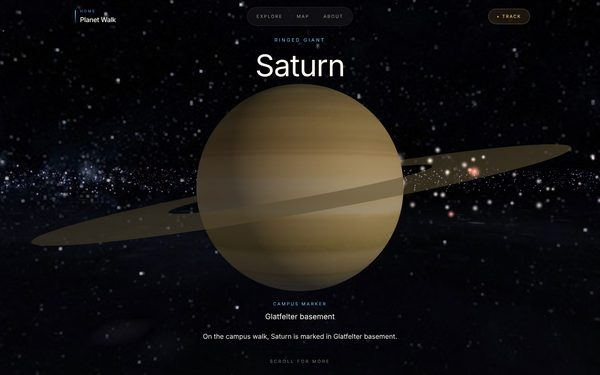
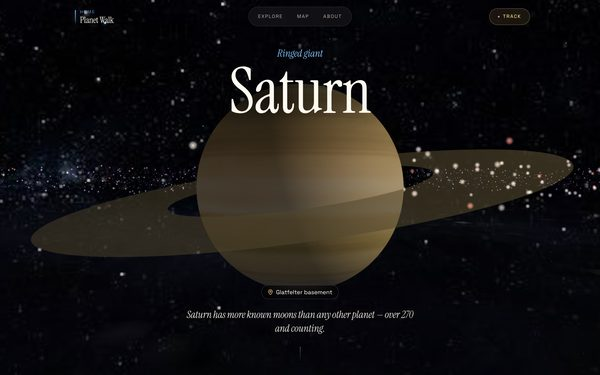
Planet Walk: new screenshots of the updated website
The home page's solar system, the Saturn page (both now at 2x) and the
walk tracker on a phone, partway along the walk, taken from the live
planet-walk.vercel.app.

Claude-Session: https://claude.ai/code/session_012FpAVkwbVFMHEecmbq7E1n

diff --git a/js/works-data.js b/js/works-data.js
@@ -138,8 +138,8 @@
   { id: 'pw-mural-jupiter', title: 'Observatory mural: Jupiter', year: 2026, medium: 'Digital mixed media for vinyl print', dimensions: null, category: 'digital', hidden: true, base: 'planet-walk/pw-mural-jupiter', ws: [600, 769, 769], w: 769, h: 2056 },
   { id: 'pw-mural-saturn', title: 'Observatory mural: Saturn', year: 2026, medium: 'Digital mixed media for vinyl print', dimensions: null, category: 'digital', hidden: true, base: 'planet-walk/pw-mural-saturn', ws: [600, 769, 769], w: 769, h: 2056 },
   { id: 'pw-route-map', title: 'Planet Walk route', year: 2026, medium: 'Campus map with the route from Masters Hall to the College Observatory', dimensions: null, category: 'digital', hidden: true, base: 'planet-walk/pw-route-map', ws: [600, 1200, 1512], w: 1512, h: 1122 },
-  { id: 'pw-site-solar', title: 'Planet Walk website: home page', year: 2026, medium: 'Website screenshot', dimensions: null, category: 'digital', hidden: true, base: 'planet-walk/pw-site-solar', ws: [600, 1200, 1440], w: 1440, h: 900 },
-  { id: 'pw-site-saturn', title: 'Planet Walk website: Saturn', year: 2026, medium: 'Website screenshot', dimensions: null, category: 'digital', hidden: true, base: 'planet-walk/pw-site-saturn', ws: [600, 1200, 1440], w: 1440, h: 900 },
+  { id: 'pw-site-solar', title: 'Planet Walk website: home page', year: 2026, medium: 'Website screenshot', dimensions: null, category: 'digital', hidden: true, base: 'planet-walk/pw-site-solar', ws: [600, 1200, 1800], w: 1800, h: 1125 },
+  { id: 'pw-site-saturn', title: 'Planet Walk website: Saturn', year: 2026, medium: 'Website screenshot', dimensions: null, category: 'digital', hidden: true, base: 'planet-walk/pw-site-saturn', ws: [600, 1200, 1800], w: 1800, h: 1125 },
   { id: 'pw-site-tracker', title: 'Planet Walk website: walk tracker', year: 2026, medium: 'Website screenshot, phone', dimensions: null, category: 'digital', hidden: true, base: 'planet-walk/pw-site-tracker', ws: [600, 1170, 1170], w: 1170, h: 2160 },
   { id: 'pw-clay', title: 'Clay preparation', year: 2026, medium: 'Tiles cut and drying before carving', dimensions: null, category: 'ceramics', hidden: true, base: 'planet-walk/pw-clay', ws: [600, 1200, 1603], w: 1603, h: 2400 },
   { id: 'pw-carved', title: 'Carved prototypes', year: 2026, medium: 'Early carving tests, including the Planet Walk title', dimensions: null, category: 'ceramics', hidden: true, base: 'planet-walk/pw-carved', ws: [600, 1192, 1192], w: 1192, h: 2400 },

diff --git a/project-digital-moving-mountain.html b/project-digital-moving-mountain.html
@@ -34,7 +34,7 @@
   <script src="js/motion.js?v=f83564ed"></script>
   <script src="js/scroll-scenes.js?v=863fde3d" defer></script>
   <script src="js/works-utils.js?v=39aef780" defer></script>
-  <script src="js/works-data.js?v=73e4451c" defer></script>
+  <script src="js/works-data.js?v=00616cf1" defer></script>
   <script src="js/works-photography.js?v=4e357e49" defer></script>
   <script src="js/photo-brightness.js?v=f5447711" defer></script>
   <script src="js/projects-data.js?v=40360e44" defer></script>

diff --git a/project-national-team-selection.html b/project-national-team-selection.html
@@ -34,7 +34,7 @@
   <script src="js/motion.js?v=f83564ed"></script>
   <script src="js/scroll-scenes.js?v=863fde3d" defer></script>
   <script src="js/works-utils.js?v=39aef780" defer></script>
-  <script src="js/works-data.js?v=73e4451c" defer></script>
+  <script src="js/works-data.js?v=00616cf1" defer></script>
   <script src="js/works-photography.js?v=4e357e49" defer></script>
   <script src="js/photo-brightness.js?v=f5447711" defer></script>
   <script src="js/projects-data.js?v=40360e44" defer></script>

diff --git a/project-planet-walk.html b/project-planet-walk.html
@@ -34,7 +34,7 @@
   <script src="js/motion.js?v=f83564ed"></script>
   <script src="js/scroll-scenes.js?v=863fde3d" defer></script>
   <script src="js/works-utils.js?v=39aef780" defer></script>
-  <script src="js/works-data.js?v=73e4451c" defer></script>
+  <script src="js/works-data.js?v=00616cf1" defer></script>
   <script src="js/works-photography.js?v=4e357e49" defer></script>
   <script src="js/photo-brightness.js?v=f5447711" defer></script>
   <script src="js/projects-data.js?v=40360e44" defer></script>

diff --git a/project-women-in-the-art-world.html b/project-women-in-the-art-world.html
@@ -34,7 +34,7 @@
   <script src="js/motion.js?v=f83564ed"></script>
   <script src="js/scroll-scenes.js?v=863fde3d" defer></script>
   <script src="js/works-utils.js?v=39aef780" defer></script>
-  <script src="js/works-data.js?v=73e4451c" defer></script>
+  <script src="js/works-data.js?v=00616cf1" defer></script>
   <script src="js/works-photography.js?v=4e357e49" defer></script>
   <script src="js/photo-brightness.js?v=f5447711" defer></script>
   <script src="js/projects-data.js?v=40360e44" defer></script>

diff --git a/projects.html b/projects.html
@@ -34,7 +34,7 @@
   <script src="js/motion.js?v=f83564ed"></script>
   <script src="js/scroll-scenes.js?v=863fde3d" defer></script>
   <script src="js/works-utils.js?v=39aef780" defer></script>
-  <script src="js/works-data.js?v=73e4451c" defer></script>
+  <script src="js/works-data.js?v=00616cf1" defer></script>
   <script src="js/works-photography.js?v=4e357e49" defer></script>
   <script src="js/photo-brightness.js?v=f5447711" defer></script>
   <script src="js/projects-data.js?v=40360e44" defer></script>

diff --git a/404.html b/404.html
@@ -33,7 +33,7 @@
   <script src="js/motion.js?v=f83564ed"></script>
   <script src="js/scroll-scenes.js?v=863fde3d" defer></script>
   <script src="js/works-utils.js?v=39aef780" defer></script>
-  <script src="js/works-data.js?v=73e4451c" defer></script>
+  <script src="js/works-data.js?v=00616cf1" defer></script>
   <script src="js/works-photography.js?v=4e357e49" defer></script>
   <script src="js/photo-brightness.js?v=f5447711" defer></script>
   <script src="js/painted-text.js?v=652abef6" defer></script>

diff --git a/contact.html b/contact.html
@@ -34,7 +34,7 @@
   <script src="js/motion.js?v=f83564ed"></script>
   <script src="js/scroll-scenes.js?v=863fde3d" defer></script>
   <script src="js/works-utils.js?v=39aef780" defer></script>
-  <script src="js/works-data.js?v=73e4451c" defer></script>
+  <script src="js/works-data.js?v=00616cf1" defer></script>
   <script src="js/works-photography.js?v=4e357e49" defer></script>
   <script src="js/photo-brightness.js?v=f5447711" defer></script>
   <script src="js/painted-text.js?v=652abef6" defer></script>

diff --git a/index.html b/index.html
@@ -35,7 +35,7 @@
   <script src="js/motion.js?v=f83564ed"></script>
   <script src="js/scroll-scenes.js?v=863fde3d" defer></script>
   <script src="js/works-utils.js?v=39aef780" defer></script>
-  <script src="js/works-data.js?v=73e4451c" defer></script>
+  <script src="js/works-data.js?v=00616cf1" defer></script>
   <script src="js/works-photography.js?v=4e357e49" defer></script>
   <script src="js/photo-brightness.js?v=f5447711" defer></script>
   <script src="js/painted-text.js?v=652abef6" defer></script>

diff --git a/gallery.html b/gallery.html
@@ -34,7 +34,7 @@
   <script src="js/motion.js?v=f83564ed"></script>
   <script src="js/scroll-scenes.js?v=863fde3d" defer></script>
   <script src="js/works-utils.js?v=39aef780" defer></script>
-  <script src="js/works-data.js?v=73e4451c" defer></script>
+  <script src="js/works-data.js?v=00616cf1" defer></script>
   <script src="js/works-photography.js?v=4e357e49" defer></script>
   <script src="js/photo-brightness.js?v=f5447711" defer></script>
   <script src="js/series-data.js?v=7634f917" defer></script>

diff --git a/series-architecture.html b/series-architecture.html
@@ -35,7 +35,7 @@
   <script src="js/motion.js?v=f83564ed"></script>
   <script src="js/scroll-scenes.js?v=863fde3d" defer></script>
   <script src="js/works-utils.js?v=39aef780" defer></script>
-  <script src="js/works-data.js?v=73e4451c" defer></script>
+  <script src="js/works-data.js?v=00616cf1" defer></script>
   <script src="js/works-photography.js?v=4e357e49" defer></script>
   <script src="js/photo-brightness.js?v=f5447711" defer></script>
   <script src="js/series-data.js?v=7634f917" defer></script>

diff --git a/series-asymmetrical.html b/series-asymmetrical.html
@@ -35,7 +35,7 @@
   <script src="js/motion.js?v=f83564ed"></script>
   <script src="js/scroll-scenes.js?v=863fde3d" defer></script>
   <script src="js/works-utils.js?v=39aef780" defer></script>
-  <script src="js/works-data.js?v=73e4451c" defer></script>
+  <script src="js/works-data.js?v=00616cf1" defer></script>
   <script src="js/works-photography.js?v=4e357e49" defer></script>
   <script src="js/photo-brightness.js?v=f5447711" defer></script>
   <script src="js/series-data.js?v=7634f917" defer></script>
